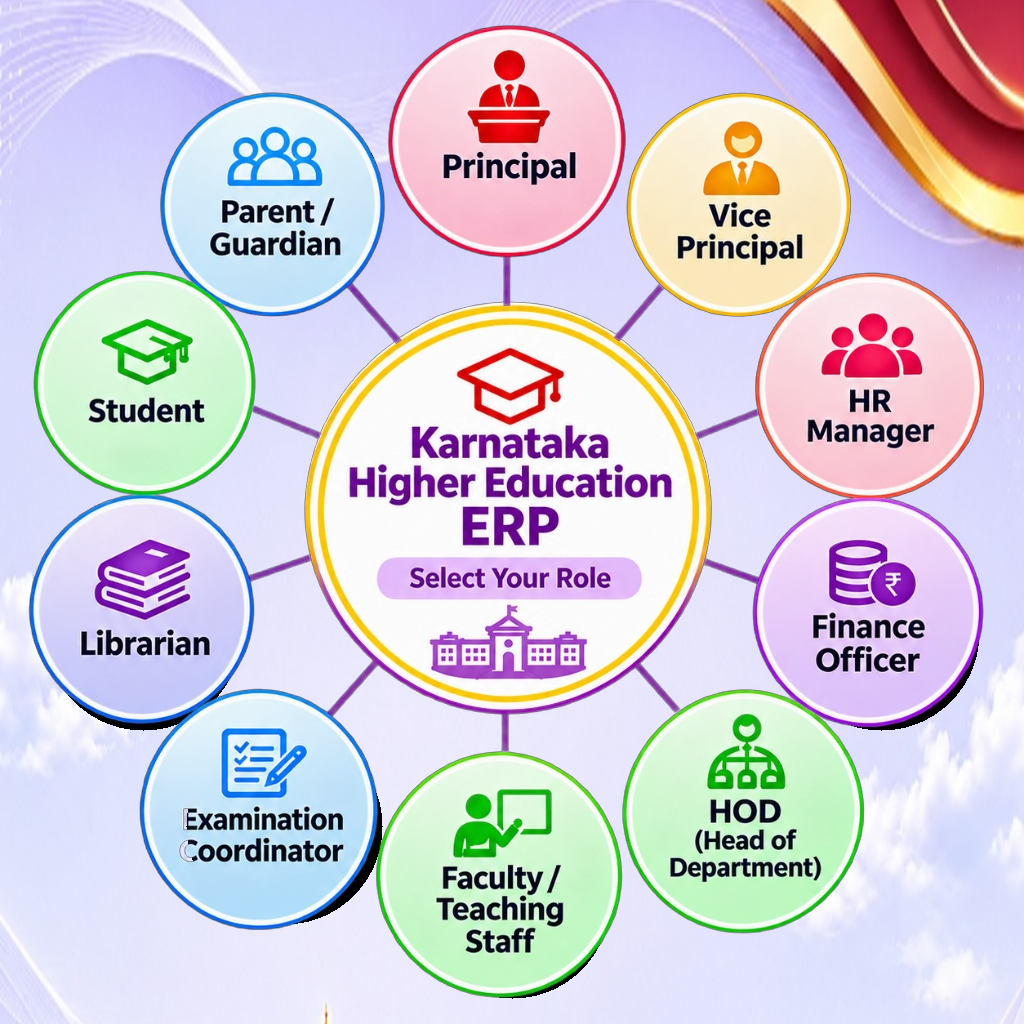
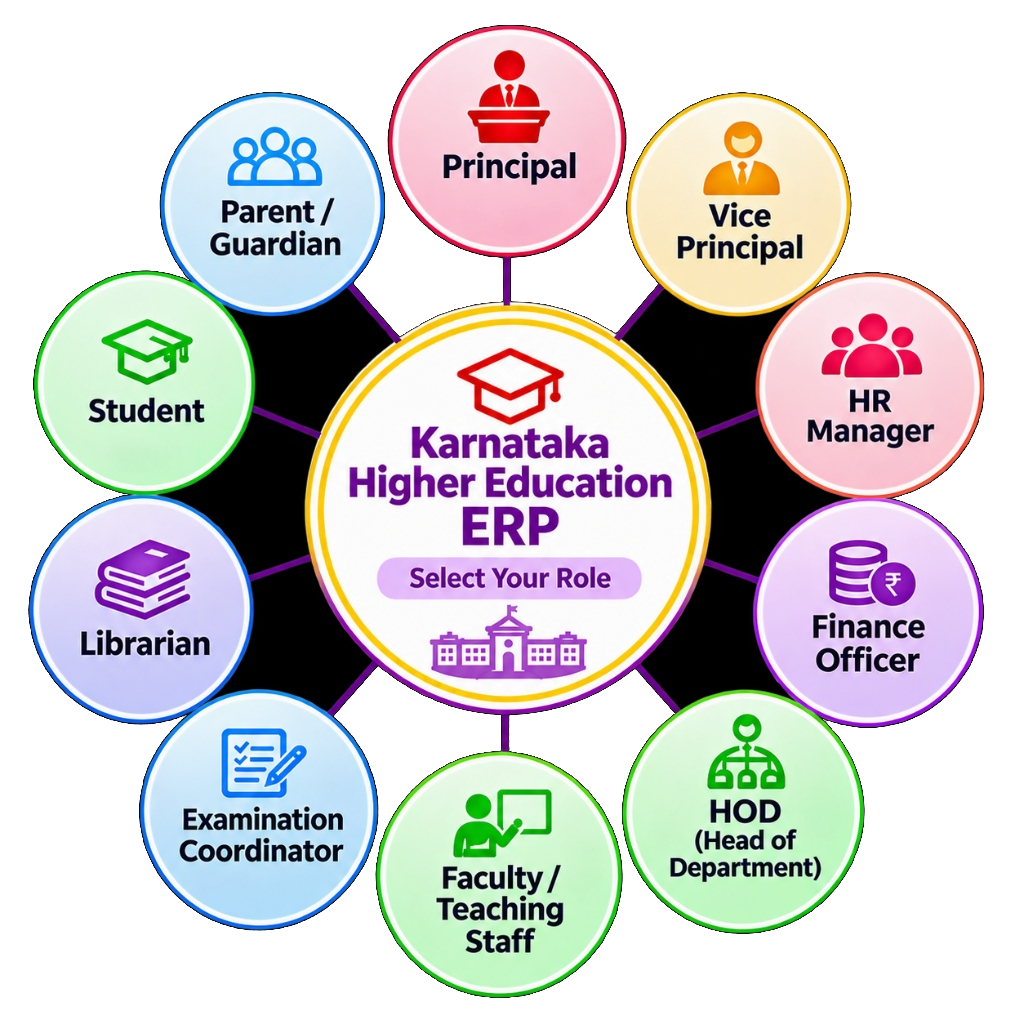
fix: make role dials completely clear and unmasked, matching Image 2 for College and Image 3 for University

diff --git a/frontend/src/components/KarnatakaCollegeRoleDial.tsx b/frontend/src/components/KarnatakaCollegeRoleDial.tsx
@@ -162,15 +162,16 @@ export const KarnatakaCollegeRoleDial: React.FC<KarnatakaCollegeRoleDialProps> =
   const [hoveredRoleId, setHoveredRoleId] = useState<string | null>(null);
 
   return (
-    <div className="relative w-[340px] h-[340px] sm:w-[460px] sm:h-[460px] md:w-[520px] md:h-[520px] lg:w-[540px] lg:h-[540px] flex items-center justify-center select-none">
+    <div className="relative w-[340px] h-[340px] sm:w-[460px] sm:h-[460px] md:w-[520px] md:h-[520px] lg:w-[560px] lg:h-[560px] xl:w-[580px] xl:h-[580px] flex items-center justify-center select-none">
       {/* 
         High-Resolution College Role Dial Artwork (Karnataka Higher Education ERP - 10 Roles)
+        Crisp, transparent artwork without any clipping border or blur mask (matches Image 2)
       */}
-      <div className="absolute inset-0 rounded-full overflow-hidden shadow-2xl border-4 border-white/85 bg-white/70 backdrop-blur-md">
+      <div className="absolute inset-0 flex items-center justify-center pointer-events-none">
         <img
           src="/karnataka-college-dial.png"
           alt="Karnataka Higher Education ERP - College Role Based Login"
-          className="w-full h-full object-contain pointer-events-none"
+          className="w-full h-full object-contain drop-shadow-xl"
         />
       </div>
 

diff --git a/frontend/src/components/KarnatakaRoleDial.tsx b/frontend/src/components/KarnatakaRoleDial.tsx
@@ -144,16 +144,16 @@ export const KarnatakaRoleDial: React.FC<KarnatakaRoleDialProps> = ({
   };
 
   return (
-    <div className="relative w-[340px] h-[340px] sm:w-[460px] sm:h-[460px] md:w-[520px] md:h-[520px] lg:w-[540px] lg:h-[540px] flex items-center justify-center select-none">
+    <div className="relative w-[340px] h-[340px] sm:w-[460px] sm:h-[460px] md:w-[520px] md:h-[520px] lg:w-[560px] lg:h-[560px] xl:w-[580px] xl:h-[580px] flex items-center justify-center select-none">
       {/* 
         High-Resolution Image 3: Karnataka Higher Education ERP Role Dial Artwork 
-        Rendered cleanly inside circular container with soft ambient glow
+        Crisp, transparent 8-petal wheel without any clipping border or blur mask (matches Image 3)
       */}
-      <div className="absolute inset-0 rounded-full overflow-hidden shadow-2xl border-4 border-white/80 bg-white/60 backdrop-blur-md">
+      <div className="absolute inset-0 flex items-center justify-center pointer-events-none">
         <img
           src="/karnataka-role-dial.png"
           alt="Karnataka Higher Education ERP Role Based Login"
-          className="w-full h-full object-contain pointer-events-none"
+          className="w-full h-full object-contain drop-shadow-xl"
         />
       </div>
 
